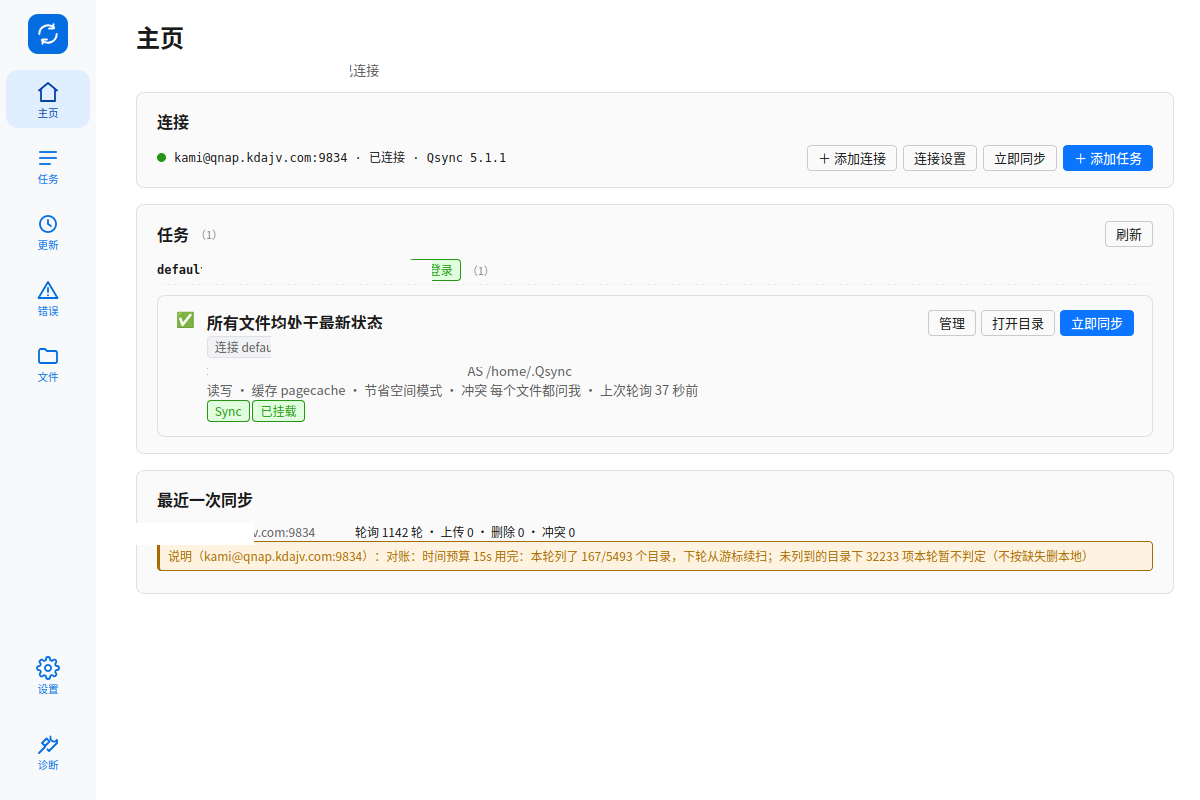
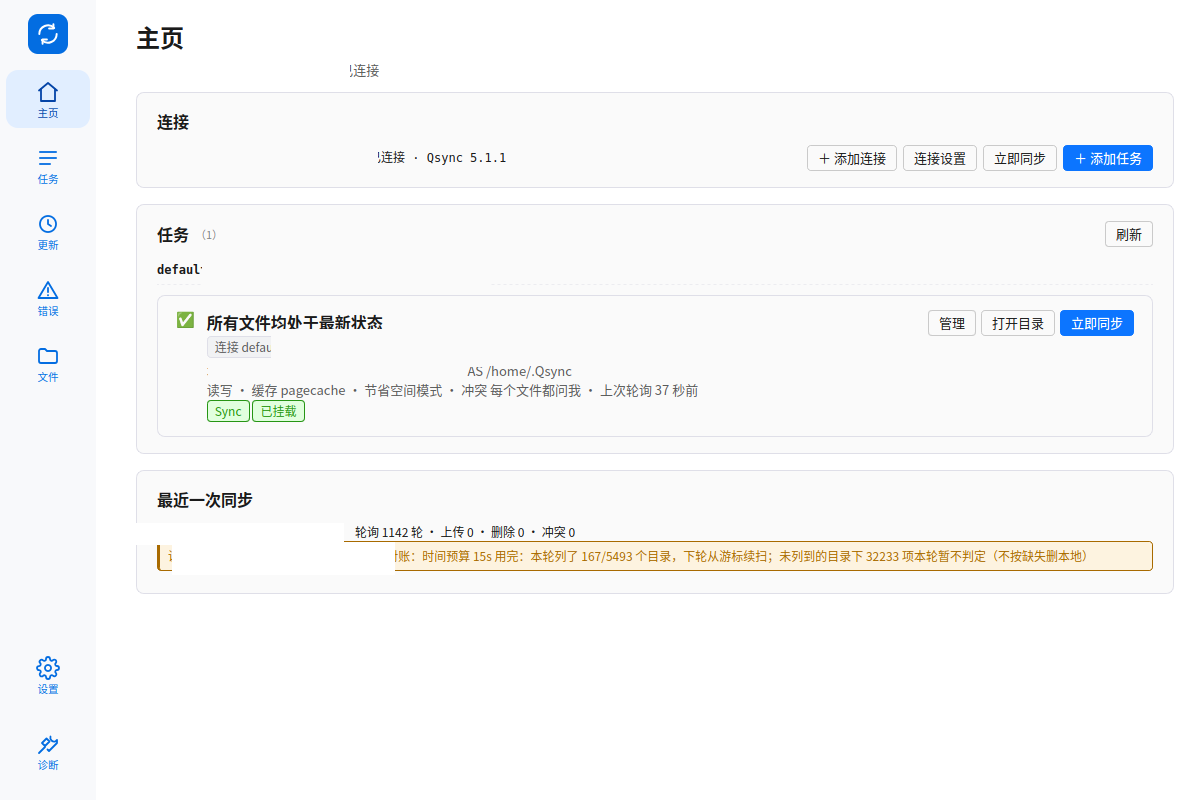
security: 脱敏截图与文档中的真实 NAS 主机名/用户名/家目录
- docs/验收-Qsync6-96dpi、docs/images 全部截图用 OCR 定位后涂掉主机名/用户名/家目录（50+ 行）
- 文档与测试夹具中的 nas.example.com → nas.example.com、user@ → user@、/home/user → /home/user
- 修正 README/验收图里的实际泄露；Release 说明里的截图引用将随重打 tag 指向脱敏版

Changed region(s): [[0.1233, 0.6562, 0.3392, 0.7188], [0.1233, 0.1875, 0.2775, 0.2188], [0.3392, 0.3125, 0.4008, 0.375]]

diff --git a/docs/验收记录.md b/docs/验收记录.md
@@ -980,7 +980,7 @@ TCP 中继断网（杀中继 = 拔网线，服务端协议不变）。脚本
 
 **顺带发现（未修，独立问题）**：真机 daemon 在 12:49:38 系统挂起 → 13:22:29 恢复之间
 无声死亡（socket 拒连、日志停在挂起前最后一轮轮询、无退出/panic 记录、pid 文件残留；
-挂载点 13:23:12 被 systemd 记为 `home-kami-qxync-default-qsync.mount: Deactivated
+挂载点 13:23:12 被 systemd 记为 `home-user-qxync-default-qsync.mount: Deactivated
 successfully`）。GUI 轮询只把状态灯变灰、不自动拉起。复现路径与看护方案（挂起/恢复
 自动重启）待单独里程碑处理；当下处置：`qxync daemon start` 重启即可。
 
